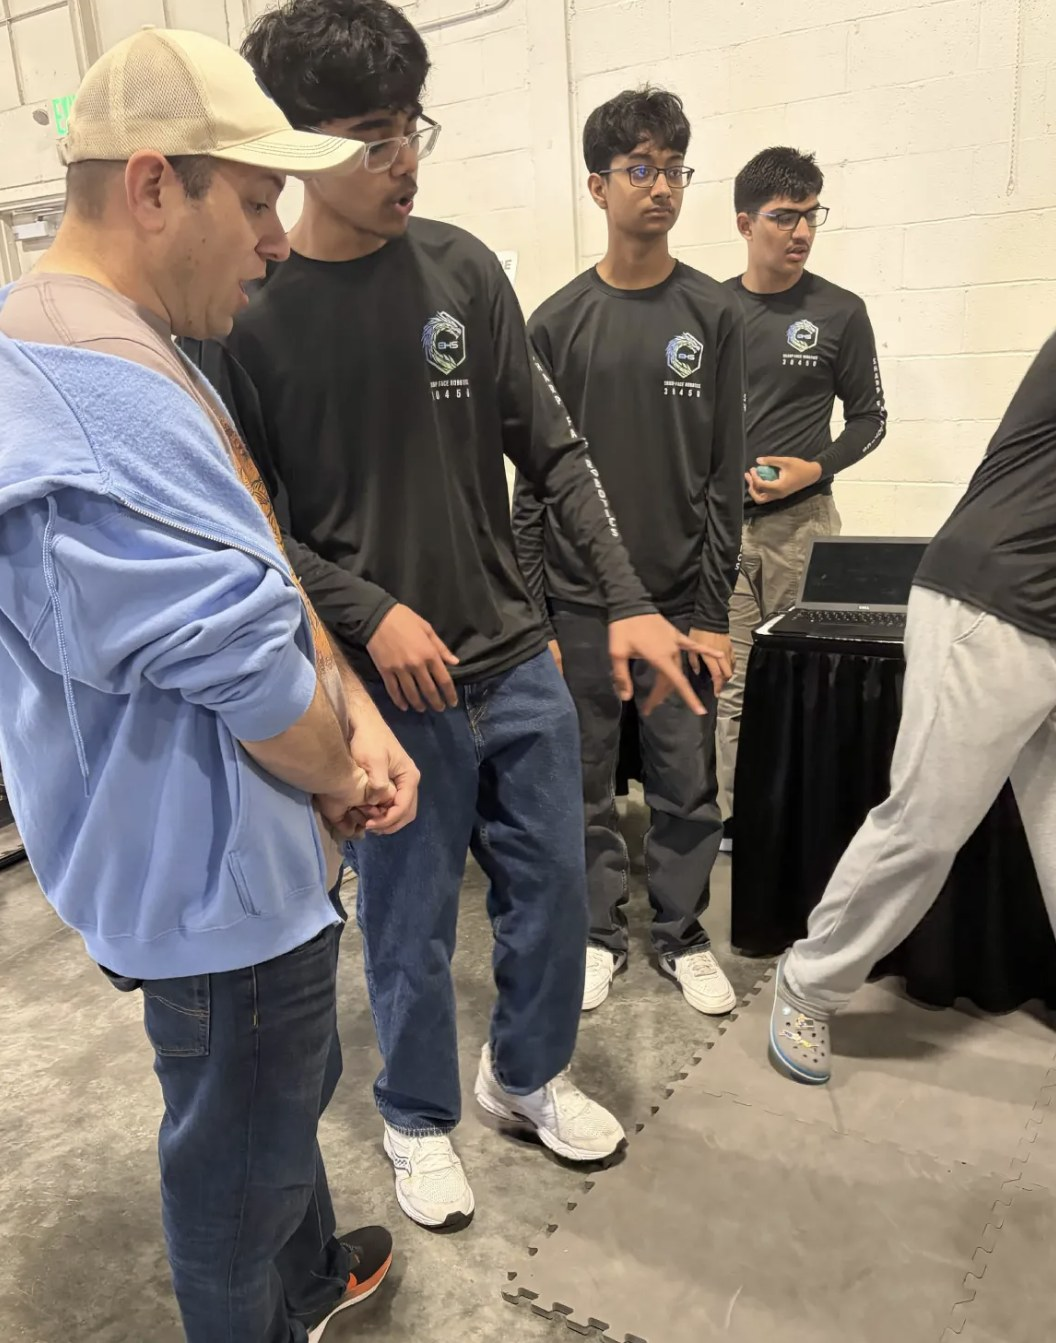
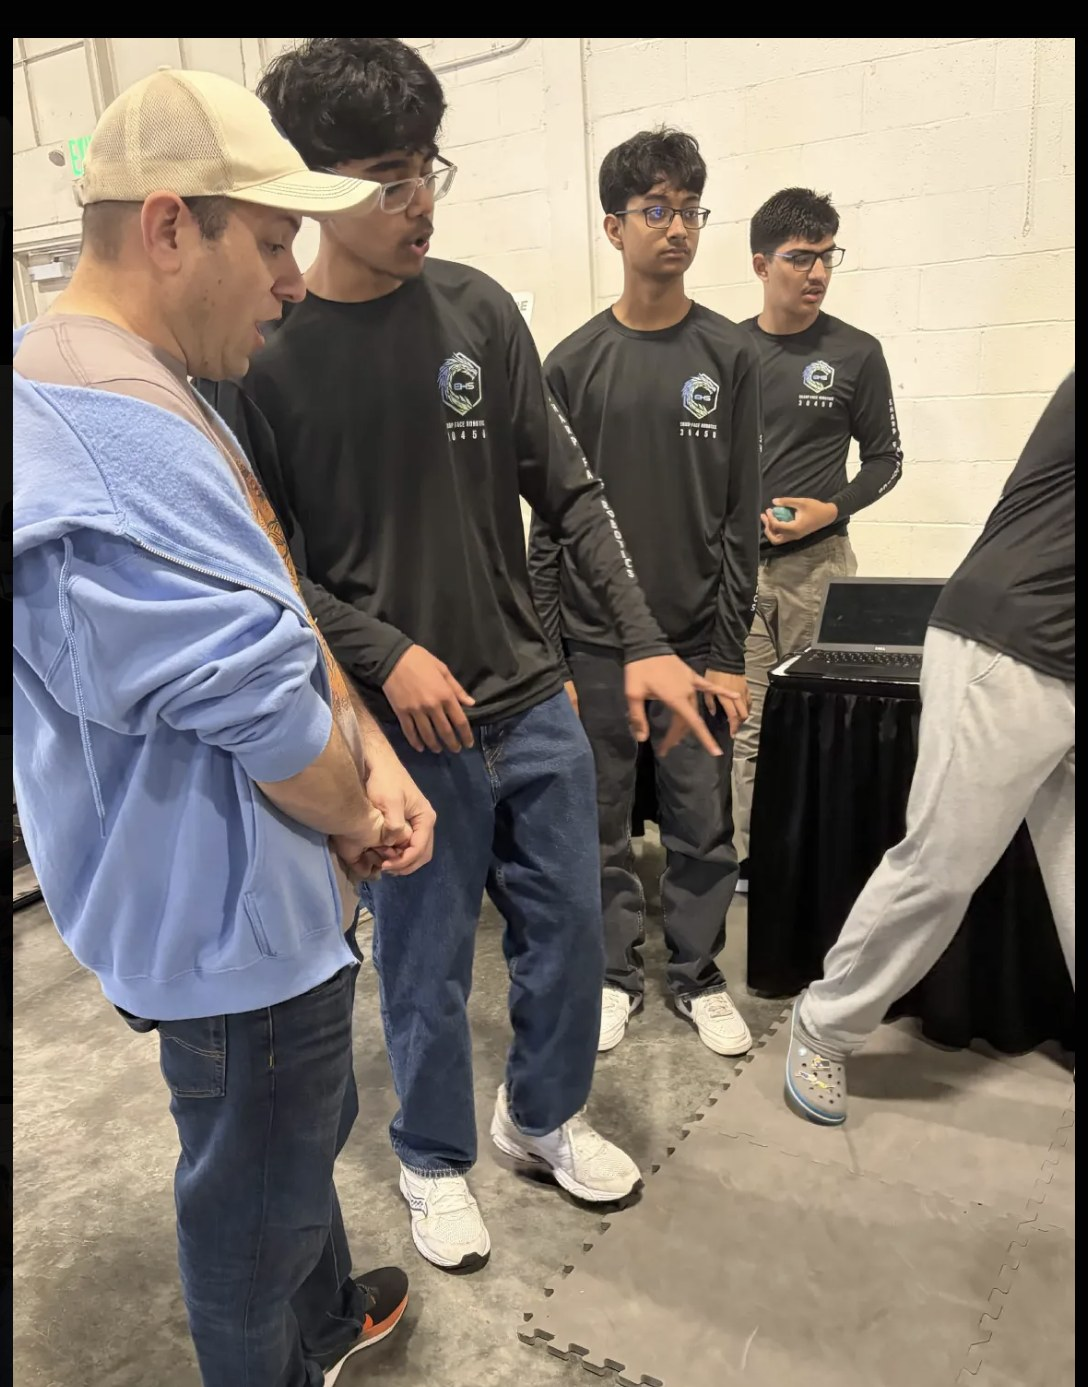
fix: crop detection was amputating subjects; 22 -> 27 usable photographs
The crop threshold was too high. It finds the brightest contiguous run, so the
DARK edges of a photograph — dark hair against a dark wall — read as app chrome
and got cut, which is why several frames had heads sliced off at the top and
others were rejected outright as too small.

  - brightness floor 38 -> 22, and the mean multiplier 0.55 -> 0.34
  - the detected box now grows outward ~1% horizontally and ~2.5% vertically
    before cropping; including a sliver of chrome is better than amputating
    the subject

22 -> 27 photographs, and the previously head-cropped frames are whole.

Two exclusions: the looser threshold let the controller CAD DRAWING through as
if it were a photo, and one frame is torsos with no faces. Robot-page picks
re-pointed, since renumbering moved every file.

Verified: 50 carousel cards (25 shown, duplicated for the loop), the four robot
shots resolve, zero broken images.

diff --git a/src/data/outreachPhotos.ts b/src/data/outreachPhotos.ts
@@ -5,24 +5,29 @@
 export type OutreachPhoto = { src: string; caption?: string };
 
 export const outreachPhotos: OutreachPhoto[] = [
+  { src: '/assets/outreach/outreach-26.jpg' },
   { src: '/assets/outreach/outreach-01.jpg' },
-  { src: '/assets/outreach/outreach-06.jpg' },
-  { src: '/assets/outreach/outreach-21.jpg' },
-  { src: '/assets/outreach/outreach-13.jpg' },
-  { src: '/assets/outreach/outreach-17.jpg' },
-  { src: '/assets/outreach/outreach-10.jpg' },
-  { src: '/assets/outreach/outreach-07.jpg' },
-  { src: '/assets/outreach/outreach-11.jpg' },
-  { src: '/assets/outreach/outreach-08.jpg' },
+  { src: '/assets/outreach/outreach-27.jpg' },
   { src: '/assets/outreach/outreach-19.jpg' },
-  { src: '/assets/outreach/outreach-05.jpg' },
-  { src: '/assets/outreach/outreach-16.jpg' },
-  { src: '/assets/outreach/outreach-14.jpg' },
+  { src: '/assets/outreach/outreach-13.jpg' },
+  { src: '/assets/outreach/outreach-11.jpg' },
+  { src: '/assets/outreach/outreach-21.jpg' },
   { src: '/assets/outreach/outreach-12.jpg' },
-  { src: '/assets/outreach/outreach-22.jpg' },
+  { src: '/assets/outreach/outreach-14.jpg' },
+  { src: '/assets/outreach/outreach-16.jpg' },
+  { src: '/assets/outreach/outreach-07.jpg' },
+  { src: '/assets/outreach/outreach-06.jpg' },
+  { src: '/assets/outreach/outreach-05.jpg' },
+  { src: '/assets/outreach/outreach-08.jpg' },
+  { src: '/assets/outreach/outreach-24.jpg' },
+  { src: '/assets/outreach/outreach-10.jpg' },
+  { src: '/assets/outreach/outreach-25.jpg' },
+  { src: '/assets/outreach/outreach-17.jpg' },
   { src: '/assets/outreach/outreach-15.jpg' },
+  { src: '/assets/outreach/outreach-22.jpg' },
   { src: '/assets/outreach/outreach-04.jpg' },
   { src: '/assets/outreach/outreach-18.jpg' },
+  { src: '/assets/outreach/outreach-23.jpg' },
   { src: '/assets/outreach/outreach-03.jpg' },
   { src: '/assets/outreach/outreach-20.jpg' },
   { src: '/assets/outreach/outreach-02.jpg' },

diff --git a/src/data/photoPicks.ts b/src/data/photoPicks.ts
@@ -4,11 +4,16 @@
 
 /** Frames where KG itself is clearly the subject. */
 export const robotPhotos = [
-  '/assets/outreach/outreach-01.jpg', // exposed chassis, Limelight visible
-  '/assets/outreach/outreach-05.jpg', // front-on at the Pack 986 banquet
-  '/assets/outreach/outreach-09.jpg', // on the floor beside the display board
-  '/assets/outreach/outreach-12.jpg', // running the field for an audience
+  '/assets/outreach/outreach-01.jpg', // exposed chassis at the display board
+  '/assets/outreach/outreach-04.jpg', // front-on at the Pack 986 banquet
+  '/assets/outreach/outreach-17.jpg', // chassis open on the table
+  '/assets/outreach/outreach-25.jpg', // KG on the floor being worked on
 ];
 
-/** Weak frames excluded from the Team carousel — a crop of people's legs. */
-export const excludedPhotos = ['/assets/outreach/outreach-14.jpg'];
+/** Frames excluded from the carousel and the Contact wall.
+    13 is the controller CAD drawing, not a photograph — the looser crop
+    detector let it through. 22 is a crop of torsos with no faces. */
+export const excludedPhotos = [
+  '/assets/outreach/outreach-13.jpg',
+  '/assets/outreach/outreach-22.jpg',
+];

diff --git a/scripts/ingest-photos.py b/scripts/ingest-photos.py
@@ -62,7 +62,10 @@ for f in sorted(glob.glob(f'{SRC}/*')):
     body = im.crop((0, 0, w, int(h * 0.93)))
     xs = brightness_profile(body, 'x')
     ys = brightness_profile(body, 'y')
-    thresh = max(38.0, (sum(xs) / len(xs)) * 0.55)
+    # A brightness threshold this high clips the DARK edges of a photograph —
+    # dark hair against a dark wall reads as chrome and the crop cuts heads off.
+    # Lower floor plus a margin of grace on each side.
+    thresh = max(22.0, (sum(xs) / len(xs)) * 0.34)
     x0, x1 = longest_bright_run(xs, thresh)
     y0, y1 = longest_bright_run(ys, thresh)
 
@@ -70,8 +73,12 @@ for f in sorted(glob.glob(f'{SRC}/*')):
         print(f'  skip (no photo) {os.path.basename(f)}')
         continue
 
-    pad = 3
-    crop = im.crop((x0 + pad, y0 + pad, x1 - pad, y1 - pad))
+    # Grow the detected box outward — better to include a sliver of chrome than
+    # to amputate the subject.
+    grow_x, grow_y = int(w * 0.012), int(h * 0.025)
+    x0 = max(0, x0 - grow_x); x1 = min(w, x1 + grow_x)
+    y0 = max(0, y0 - grow_y); y1 = min(int(h * 0.93), y1 + grow_y)
+    crop = im.crop((x0, y0, x1, y1))
 
     # Reject undersized results. A bad detection yields a small sliver, and a
     # 310x715 crop is not a usable photograph on a full-width carousel.
